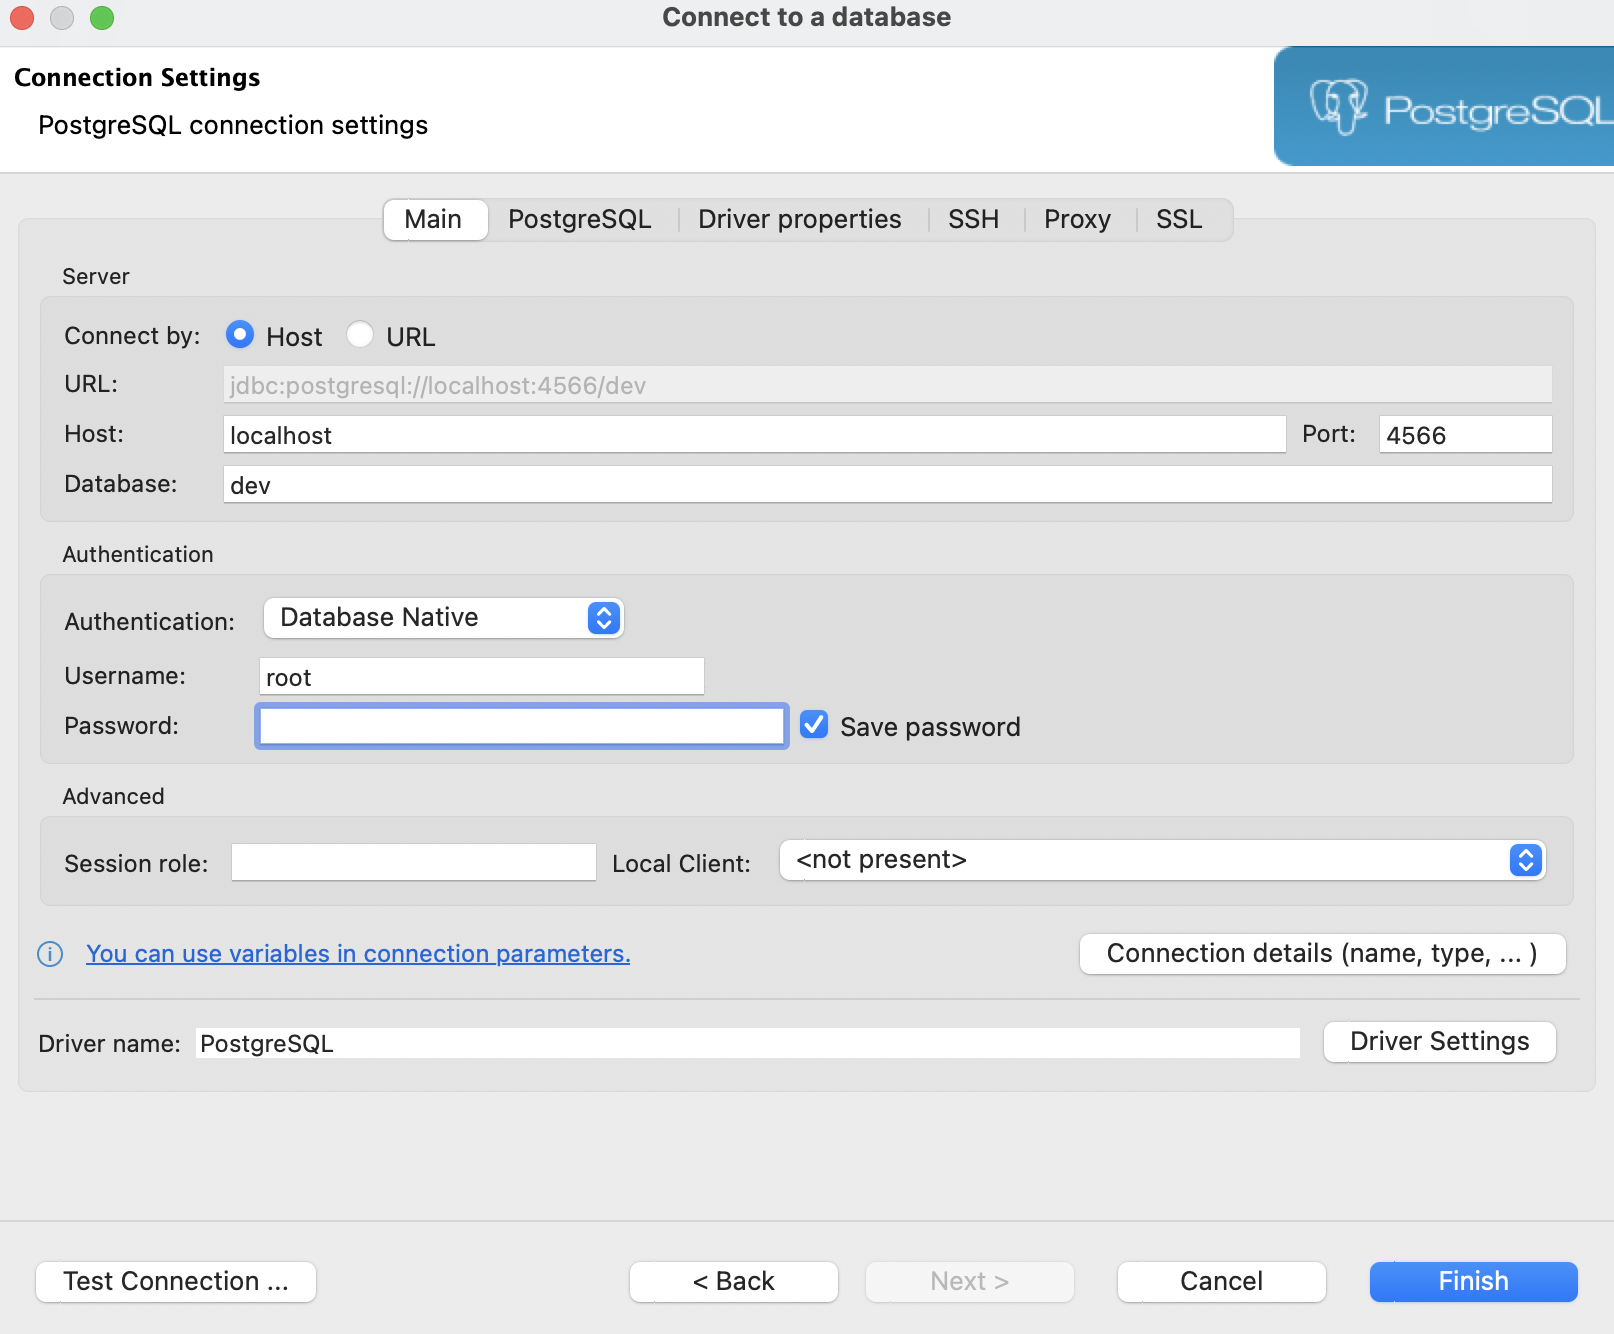
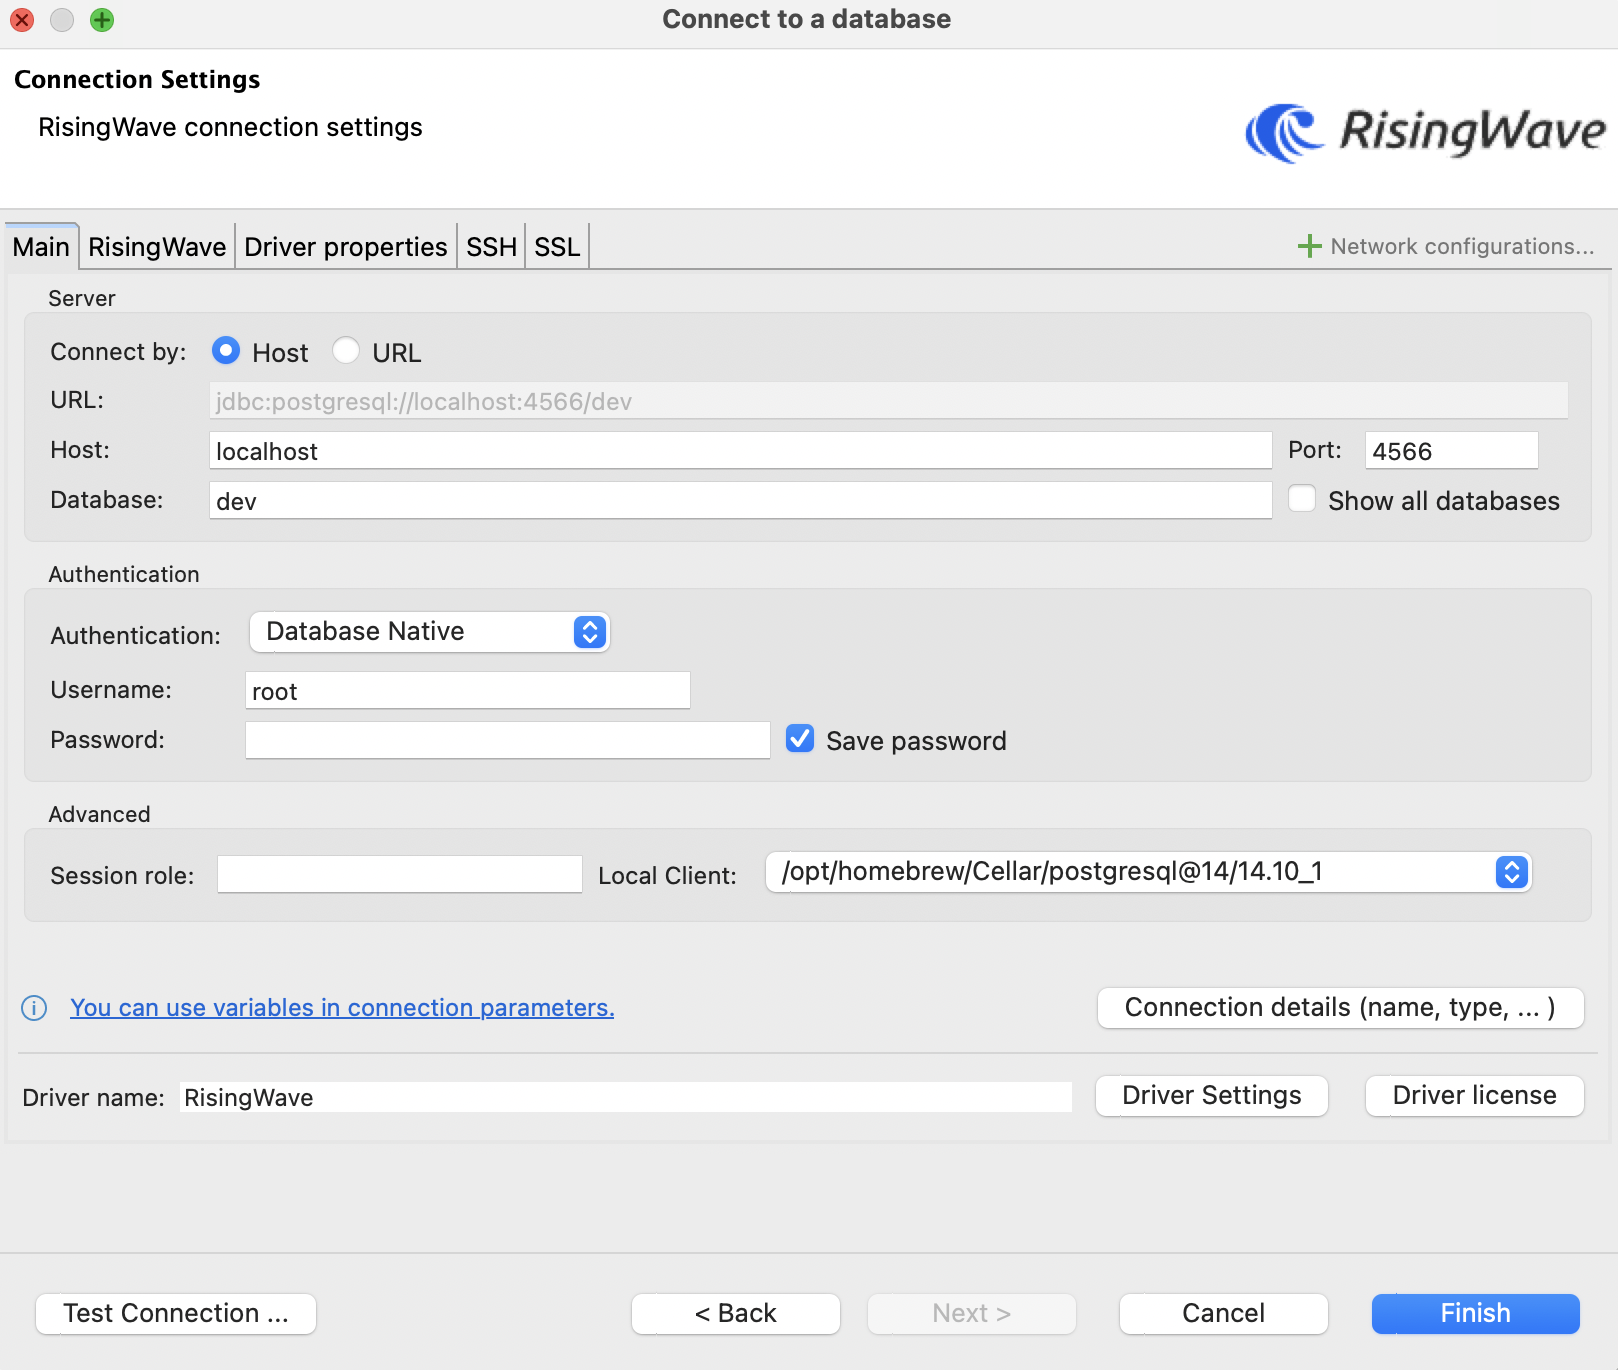
use risingwave driver instead of postgres driver in dbeaver (#1961)

diff --git a/docs/guides/dbeaver-integration.md b/docs/guides/dbeaver-integration.md
@@ -14,7 +14,7 @@ This guide will go over how to connect DBeaver to RisingWave so you can seamless
 
 ## Prerequisites
 
-- Ensure that DBeaver is installed. To download DBeaver, see the [DBeaver download page](https://dbeaver.io/download/).
+- Ensure that DBeaver is installed. To download DBeaver, see the [DBeaver download page](https://dbeaver.io/download/). Please make sure that your DBeaver version is at least [v23.3.4](https://dbeaver.io/2024/02/04/dbeaver-23-3-4/).
 
 - Install and start RisingWave. For instructions on how to get started, see the [Quick start guide](/get-started.md).
 
@@ -22,7 +22,7 @@ This guide will go over how to connect DBeaver to RisingWave so you can seamless
 
 1. In DBeaver, from the menu bar, select **Database > New database connection**.
 
-2. In the **Connect to a database** window, select **PostgreSQL**. Click **Next**.
+2. In the **Connect to a database** window, select **RisingWave**. Click **Next**.
 
 3. Under **Connection settings**, provide the following information:
 

diff --git a/versioned_docs/version-1.7/guides/dbeaver-integration.md b/versioned_docs/version-1.7/guides/dbeaver-integration.md
@@ -14,7 +14,7 @@ This guide will go over how to connect DBeaver to RisingWave so you can seamless
 
 ## Prerequisites
 
-- Ensure that DBeaver is installed. To download DBeaver, see the [DBeaver download page](https://dbeaver.io/download/).
+- Ensure that DBeaver is installed. To download DBeaver, see the [DBeaver download page](https://dbeaver.io/download/). Please make sure that your DBeaver version is at least [v23.3.4](https://dbeaver.io/2024/02/04/dbeaver-23-3-4/).
 
 - Install and start RisingWave. For instructions on how to get started, see the [Quick start guide](/get-started.md).
 
@@ -22,7 +22,7 @@ This guide will go over how to connect DBeaver to RisingWave so you can seamless
 
 1. In DBeaver, from the menu bar, select **Database > New database connection**.
 
-2. In the **Connect to a database** window, select **PostgreSQL**. Click **Next**.
+2. In the **Connect to a database** window, select **RisingWave**. Click **Next**.
 
 3. Under **Connection settings**, provide the following information:
 
